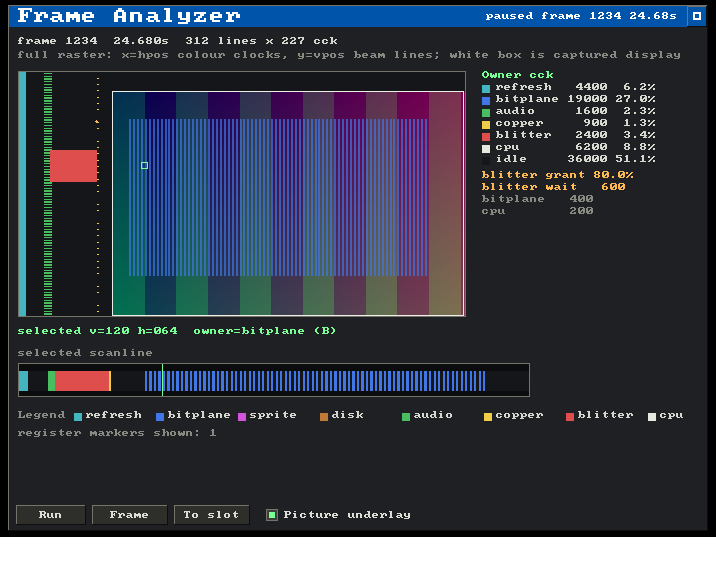
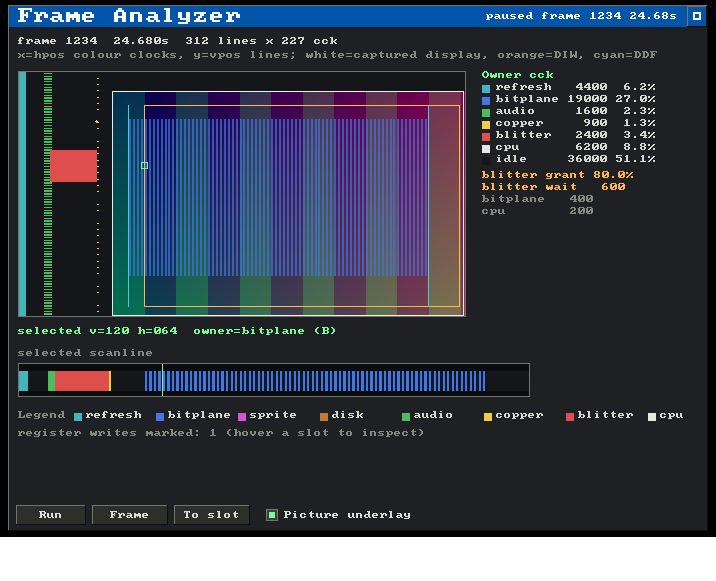
Make Frame Analyzer markers inspectable; draw DIW/DDF overlays
- Register-write markers now carry their raw fields (register offset,
  value, writer) instead of a preformatted label, the per-frame cap
  rises from 240 to 4000, and every marker is drawn (previously only
  the first 80). Hovering a heatmap slot decodes the writes within
  about one heatmap pixel of the pointer -- writer, register name,
  value, exact beam position -- under the heatmap; the readout follows
  the selected slot when the pointer is elsewhere.
- The heatmap draws the programmed display window as an orange DIW box
  and the bitplane fetch bounds as cyan DDFSTRT/DDFSTOP verticals,
  decoded from the frame-start registers with the display model's own
  DiwHigh rules (OCS implicit bits / ECS DIWHIGH, lores-pixel h units).
  Mid-frame changes to those registers already show as write markers.

Updates the frame-analyzer preview/docs screenshot and the window
chapter.

diff --git a/src/video/ui.rs b/src/video/ui.rs
@@ -35,6 +35,8 @@ const PANEL_TEXT_HILIGHT: u32 = rgba(120, 255, 150);
 const PANEL_TEXT_ACCENT: u32 = rgba(255, 184, 80);
 const BUTTON_TEXT: u32 = rgba(220, 222, 214);
 const BUTTON_TEXT_DISABLED: u32 = rgba(120, 120, 112);
+/// DDF fetch-bound verticals on the Frame Analyzer heatmap.
+const DDF_LINE: u32 = rgba(80, 200, 220);
 const ENTRY_BG: u32 = rgba(8, 10, 8);
 const ENTRY_TEXT: u32 = rgba(27, 220, 71);
 const SCRIM: u32 = rgba(0, 0, 0);
@@ -920,7 +922,33 @@ pub struct AudioRowView {
 pub struct AnalyzerMarker {
     pub vpos: u16,
     pub hpos: u16,
-    pub label: String,
+    /// Custom-register word offset into $DFF000 of the write.
+    pub offset: u16,
+    pub value: u16,
+    /// Writer: "cpu", "irq" (CPU inside the Copper-triggered interrupt
+    /// window), or "copper".
+    pub source: &'static str,
+}
+
+impl AnalyzerMarker {
+    fn label(&self) -> String {
+        format!(
+            "{} {}=${:04X} v{} h{}",
+            self.source,
+            crate::debugger::custom_reg_name(self.offset & 0x01FE),
+            self.value,
+            self.vpos,
+            self.hpos,
+        )
+    }
+
+    /// Whether this marker sits close enough to beam slot
+    /// (`vpos`, `hpos`) to be reported for it: within a line vertically
+    /// and two colour clocks horizontally, roughly one heatmap pixel.
+    fn near(&self, vpos: usize, hpos: usize) -> bool {
+        (i64::from(self.vpos) - vpos as i64).abs() <= 1
+            && (i64::from(self.hpos) - hpos as i64).abs() <= 2
+    }
 }
 
 pub struct AnalyzerTraceView {
@@ -943,6 +971,14 @@ pub struct AnalyzerTraceView {
     pub selected_owner_code: u8,
     pub owners: Vec<u8>,
     pub markers: Vec<AnalyzerMarker>,
+    /// Frame-start display window: (v_start, v_stop) beam lines (stop
+    /// already unwrapped past 255 where applicable) and (h_start, h_stop)
+    /// in colour clocks. None when DIW is unprogrammed.
+    pub diw_v: Option<(u16, u16)>,
+    pub diw_h_cck: Option<(u16, u16)>,
+    /// Frame-start bitplane fetch bounds (DDFSTRT, DDFSTOP) in colour
+    /// clocks.
+    pub ddf_cck: Option<(u16, u16)>,
 }
 
 impl AnalyzerTraceView {
@@ -1953,7 +1989,49 @@ fn draw_owner_heatmap(
         scale,
     );
 
-    for marker in trace.markers.iter().take(80) {
+    // Frame-start DIW box (accent) and DDF fetch-bound verticals (cyan),
+    // spanning the display window's lines. Mid-frame changes to these
+    // registers show up as write markers instead.
+    let diw_rows = trace.diw_v.map(|(v0, v1)| {
+        (
+            trace_y(rect, usize::from(v0).min(trace.rows), trace.rows),
+            trace_y(rect, usize::from(v1).min(trace.rows), trace.rows),
+        )
+    });
+    if let (Some((y0, y1)), Some((h0, h1))) = (diw_rows, trace.diw_h_cck) {
+        let x0 = trace_x(rect, usize::from(h0).min(trace.cols), trace.cols);
+        let x1 = trace_x(rect, usize::from(h1).min(trace.cols), trace.cols);
+        draw_outline_clipped(
+            frame,
+            Rect {
+                x: x0,
+                y: y0,
+                w: x1.saturating_sub(x0).max(1),
+                h: y1.saturating_sub(y0).max(1),
+            },
+            rect,
+            PANEL_TEXT_ACCENT,
+            scale,
+        );
+    }
+    if let (Some((y0, y1)), Some((d0, d1))) = (diw_rows, trace.ddf_cck) {
+        for ddf in [d0, d1] {
+            fill_rect_clipped(
+                frame,
+                Rect {
+                    x: trace_x(rect, usize::from(ddf).min(trace.cols), trace.cols),
+                    y: y0,
+                    w: 1,
+                    h: y1.saturating_sub(y0).max(1),
+                },
+                rect,
+                DDF_LINE,
+                scale,
+            );
+        }
+    }
+
+    for marker in trace.markers.iter() {
         let x = trace_x(rect, marker.hpos as usize, trace.cols);
         let y = trace_y(rect, marker.vpos as usize, trace.rows);
         fill_rect_clipped(
@@ -2263,7 +2341,7 @@ fn draw_frame_analyzer(
         frame,
         rect.x + 10,
         rect.y + TITLE_H + 24,
-        "full raster: x=hpos colour clocks, y=vpos beam lines; white box is captured display",
+        "x=hpos colour clocks, y=vpos lines; white=captured display, orange=DIW, cyan=DDF",
         PANEL_TEXT_DIM,
         1,
         scale,
@@ -2290,14 +2368,43 @@ fn draw_frame_analyzer(
         1,
         scale,
     );
-    if let Some(marker) = trace.markers.iter().find(|m| {
-        usize::from(m.vpos) == trace.selected_vpos && usize::from(m.hpos) == trace.selected_hpos
-    }) {
+    // Register writes near the point of interest: the hovered heatmap
+    // slot while the pointer is over the raster, the selected slot
+    // otherwise. Nearby means within a heatmap pixel, so markers are
+    // inspectable by pointing at them rather than needing an exact
+    // colour-clock hit.
+    let (probe_vpos, probe_hpos) = match hover {
+        Some(UiControl::AnalyzerPick {
+            x,
+            y,
+            scanline: false,
+        }) => (
+            (usize::from(y) * trace.rows / 1024).min(trace.rows.saturating_sub(1)),
+            (usize::from(x) * trace.cols / 1024).min(trace.cols.saturating_sub(1)),
+        ),
+        _ => (trace.selected_vpos, trace.selected_hpos),
+    };
+    let mut near = trace
+        .markers
+        .iter()
+        .filter(|marker| marker.near(probe_vpos, probe_hpos));
+    let mut marker_text = String::new();
+    for marker in near.by_ref().take(2) {
+        if !marker_text.is_empty() {
+            marker_text.push_str("  |  ");
+        }
+        marker_text.push_str(&marker.label());
+    }
+    let extra = near.count();
+    if extra > 0 {
+        marker_text.push_str(&format!("  (+{extra} more)"));
+    }
+    if !marker_text.is_empty() {
         draw_panel_text(
             frame,
             rect.x + 10,
             raster.y + raster.h + 22,
-            &marker.label,
+            &marker_text,
             PANEL_TEXT_ACCENT,
             1,
             scale,
@@ -2346,12 +2453,15 @@ fn draw_frame_analyzer(
         x += if code == b'.' { 54 } else { 82 };
     }
     y += 18;
-    let marker_text = format!("register markers shown: {}", trace.markers.len().min(80));
+    let marker_count = format!(
+        "register writes marked: {} (hover a slot to inspect)",
+        trace.markers.len()
+    );
     draw_panel_text(
         frame,
         rect.x + 10,
         y,
-        &marker_text,
+        &marker_count,
         PANEL_TEXT_DIM,
         1,
         scale,
@@ -3692,6 +3802,24 @@ mod tests {
     }
 
     #[test]
+    fn analyzer_marker_radius_and_label() {
+        let marker = AnalyzerMarker {
+            vpos: 100,
+            hpos: 50,
+            offset: 0x180,
+            value: 0x0F00,
+            source: "copper",
+        };
+        // Within a line and two colour clocks counts as near.
+        assert!(marker.near(100, 50));
+        assert!(marker.near(101, 52));
+        assert!(marker.near(99, 48));
+        assert!(!marker.near(102, 50));
+        assert!(!marker.near(100, 53));
+        assert_eq!(marker.label(), "copper COLOR00=$0F00 v100 h50");
+    }
+
+    #[test]
     fn analyzer_underlay_sample_maps_display_box_to_framebuffer() {
         // A trace shaped like a standard PAL frame: 312 lines of 227 cck,
         // display box starting at the framebuffer anchor.
@@ -3715,6 +3843,9 @@ mod tests {
             selected_owner_code: b'.',
             owners: vec![b'.'; 312 * 227],
             markers: Vec::new(),
+            diw_v: None,
+            diw_h_cck: None,
+            ddf_cck: None,
         };
         let mut fb = vec![0u32; FB_WIDTH * 285];
         fb[0] = 0xFF11_2233; // beam (0x1A, 0x30): framebuffer origin
@@ -4005,8 +4136,13 @@ mod tests {
             markers: vec![AnalyzerMarker {
                 vpos: 0,
                 hpos: 1,
-                label: "copper v=000 h=001 $096=0000".to_string(),
+                offset: 0x096,
+                value: 0x0000,
+                source: "copper",
             }],
+            diw_v: None,
+            diw_h_cck: None,
+            ddf_cck: None,
         };
 
         draw_owner_heatmap(&mut frame, raster, &trace, None, scale);
@@ -4412,8 +4548,15 @@ mod tests {
             markers: vec![AnalyzerMarker {
                 vpos: 0x40,
                 hpos: 0x28,
-                label: "copper v=064 h=040 $180=0F00".to_string(),
+                offset: 0x180,
+                value: 0x0F00,
+                source: "copper",
             }],
+            // A standard PAL display window and fetch bounds, so the
+            // preview shows the DIW box and DDF verticals.
+            diw_v: Some((0x2C, 0x12C)),
+            diw_h_cck: Some((0x81 / 2, 0x1C1 / 2)),
+            ddf_cck: Some((0x38, 0xD0)),
         };
         let data = PanelViewData::FrameAnalyzer(Box::new(FrameAnalyzerView {
             running: false,

diff --git a/src/video/window.rs b/src/video/window.rs
@@ -4317,29 +4317,46 @@ impl App {
                 owners.extend_from_slice(row);
             }
         }
+        // Marker capacity bounds the per-redraw copy, not what is worth
+        // seeing: a Copper writing a palette split on every line stays
+        // well inside it.
+        const MARKER_CAP: usize = 4000;
         let markers = bus
             .frame_render_events()
             .iter()
-            .take(240)
-            .map(|event| {
-                let off = event.offset & 0x01FE;
-                ui::AnalyzerMarker {
-                    vpos: event.vpos.min(u32::from(u16::MAX)) as u16,
-                    hpos: event.hpos.min(u32::from(u16::MAX)) as u16,
-                    label: format!(
-                        "{} v={:03} h={:03} ${off:03X}={:04X}",
-                        match event.source {
-                            BeamWriteSource::Cpu => "cpu",
-                            BeamWriteSource::CpuCopperIrq => "irq",
-                            BeamWriteSource::Copper => "copper",
-                        },
-                        event.vpos,
-                        event.hpos,
-                        event.value,
-                    ),
-                }
+            .take(MARKER_CAP)
+            .map(|event| ui::AnalyzerMarker {
+                vpos: event.vpos.min(u32::from(u16::MAX)) as u16,
+                hpos: event.hpos.min(u32::from(u16::MAX)) as u16,
+                offset: event.offset & 0x01FE,
+                value: event.value,
+                source: match event.source {
+                    BeamWriteSource::Cpu => "cpu",
+                    BeamWriteSource::CpuCopperIrq => "irq",
+                    BeamWriteSource::Copper => "copper",
+                },
             })
             .collect();
+        // Frame-start DIW/DDF overlays, decoded with the display model's
+        // own rules (DiwHigh carries the OCS implicit bits or the ECS
+        // DIWHIGH extension; DIW h units are lores pixels, two per cck).
+        let base = bus.frame_render_base();
+        let diw_programmed = !(base.diwstrt == 0 && base.diwstop == 0);
+        let (diw_v, diw_h_cck) = if diw_programmed {
+            let v0 = base.diwhigh.v_start(base.diwstrt);
+            let mut v1 = base.diwhigh.v_stop(base.diwstop);
+            if v1 <= v0 {
+                // Hardware vstop wrap: a stop at or above the start means
+                // the window runs past the 8-bit rollover.
+                v1 += 0x100;
+            }
+            let h0 = base.diwhigh.h_start(base.diwstrt) / 2;
+            let h1 = base.diwhigh.h_stop(base.diwstop) / 2;
+            (Some((v0, v1)), Some((h0, h1)))
+        } else {
+            (None, None)
+        };
+        let ddf_cck = diw_programmed.then_some((base.ddfstrt & 0x00FE, base.ddfstop & 0x00FE));
         ui::FrameAnalyzerView {
             running: !self.paused,
             status,
@@ -4364,6 +4381,9 @@ impl App {
                 selected_owner_code,
                 owners,
                 markers,
+                diw_v,
+                diw_h_cck,
+                ddf_cck,
             }),
         }
     }

diff --git a/docs/debugger/window.md b/docs/debugger/window.md
@@ -204,8 +204,14 @@ The main heatmap is indexed by beam position: X is `hpos` colour clocks and Y
 is `vpos` lines. Each cell records the chip-bus owner for that colour clock:
 refresh, bitplane, sprite, disk, audio, Copper, blitter, CPU, or idle. The
 white outline marks the framebuffer display area that Copperline captured for
-presentation. Register-write markers show CPU, Copper, and interrupt-time
-custom-register writes at their beam positions.
+presentation; the orange box is the programmed display window (DIW) and the
+cyan verticals are the bitplane fetch bounds (DDFSTRT/DDFSTOP), decoded from
+the frame-start registers (mid-frame changes appear as write markers).
+Register-write markers show CPU, Copper, and interrupt-time custom-register
+writes at their beam positions -- hover a slot to inspect them: the writes
+within roughly one heatmap pixel of the pointer are decoded (writer,
+register, value, and exact beam position) under the heatmap, and the same
+readout follows the selected slot when the pointer is elsewhere.
 
 Click or drag across the heatmap to select a beam slot. The cursor keys nudge
 the selector one colour clock or line at a time. The lower strip expands that
